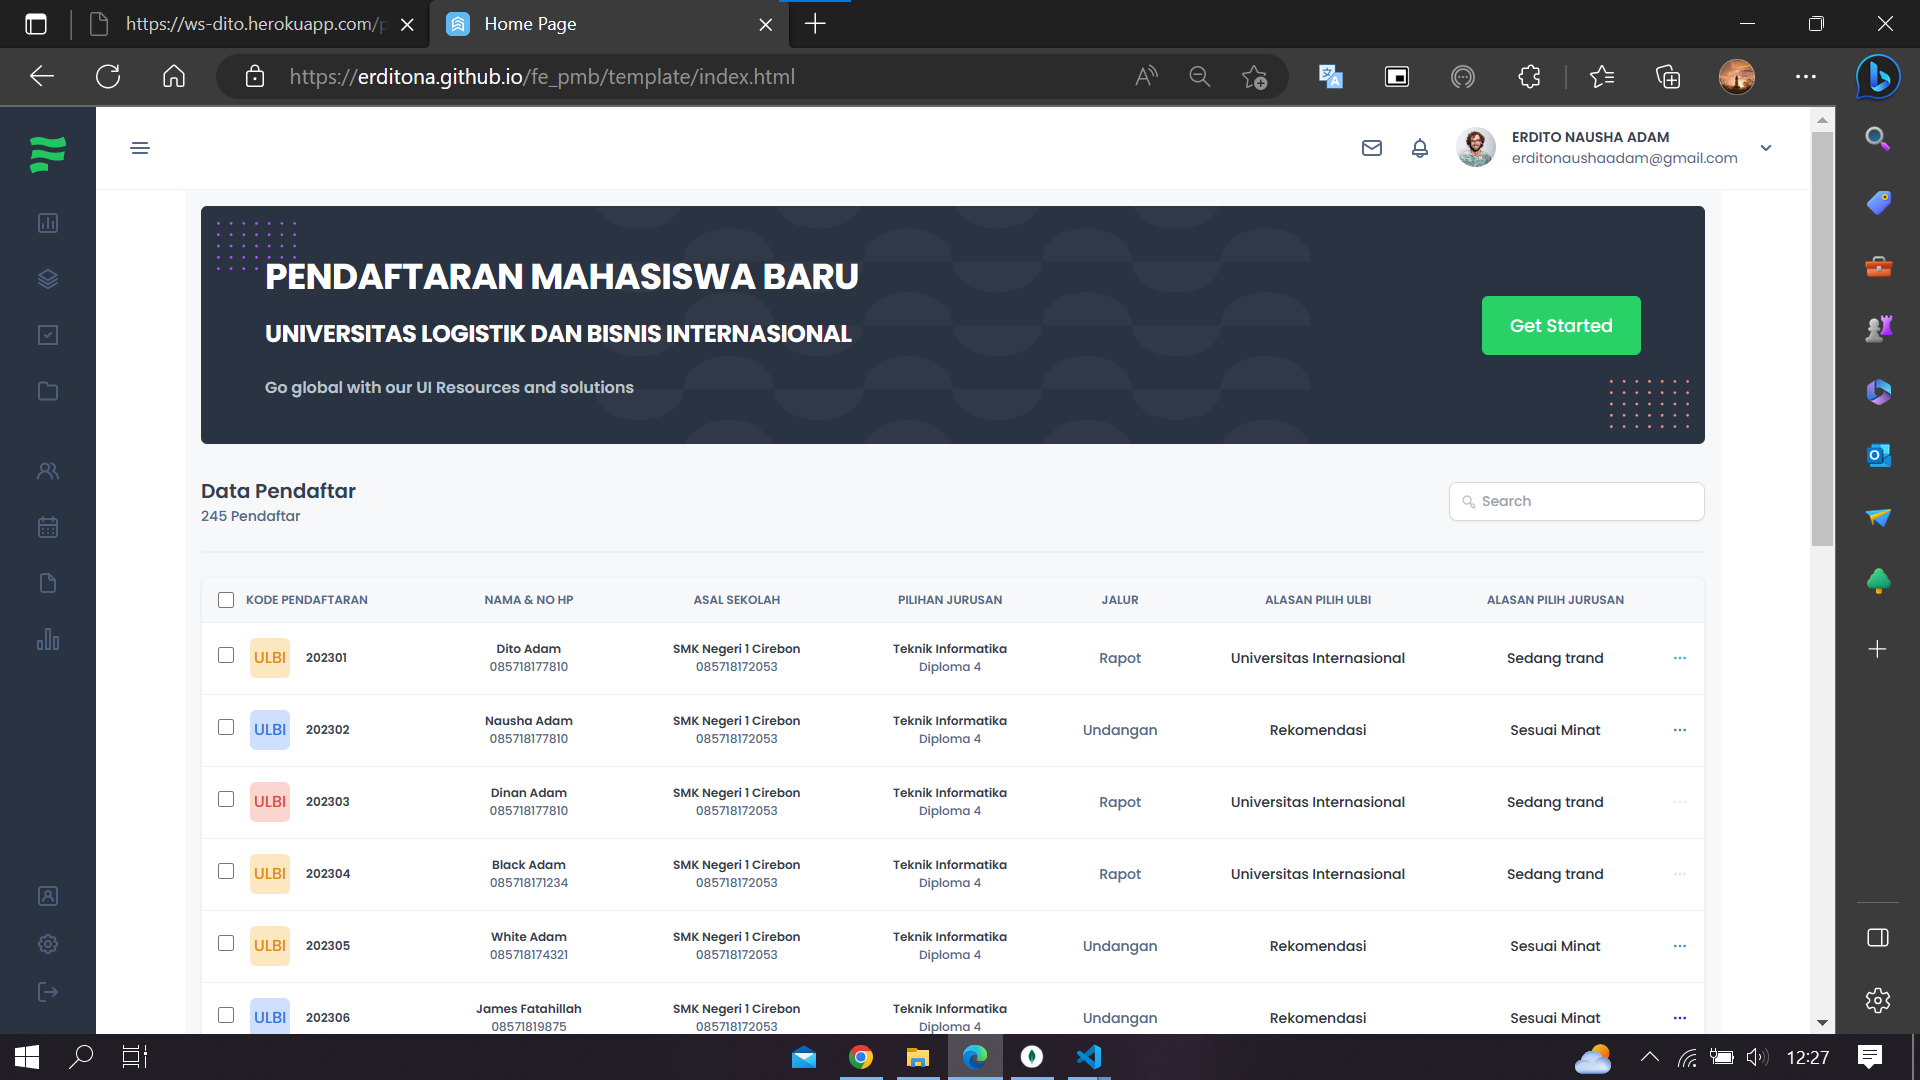
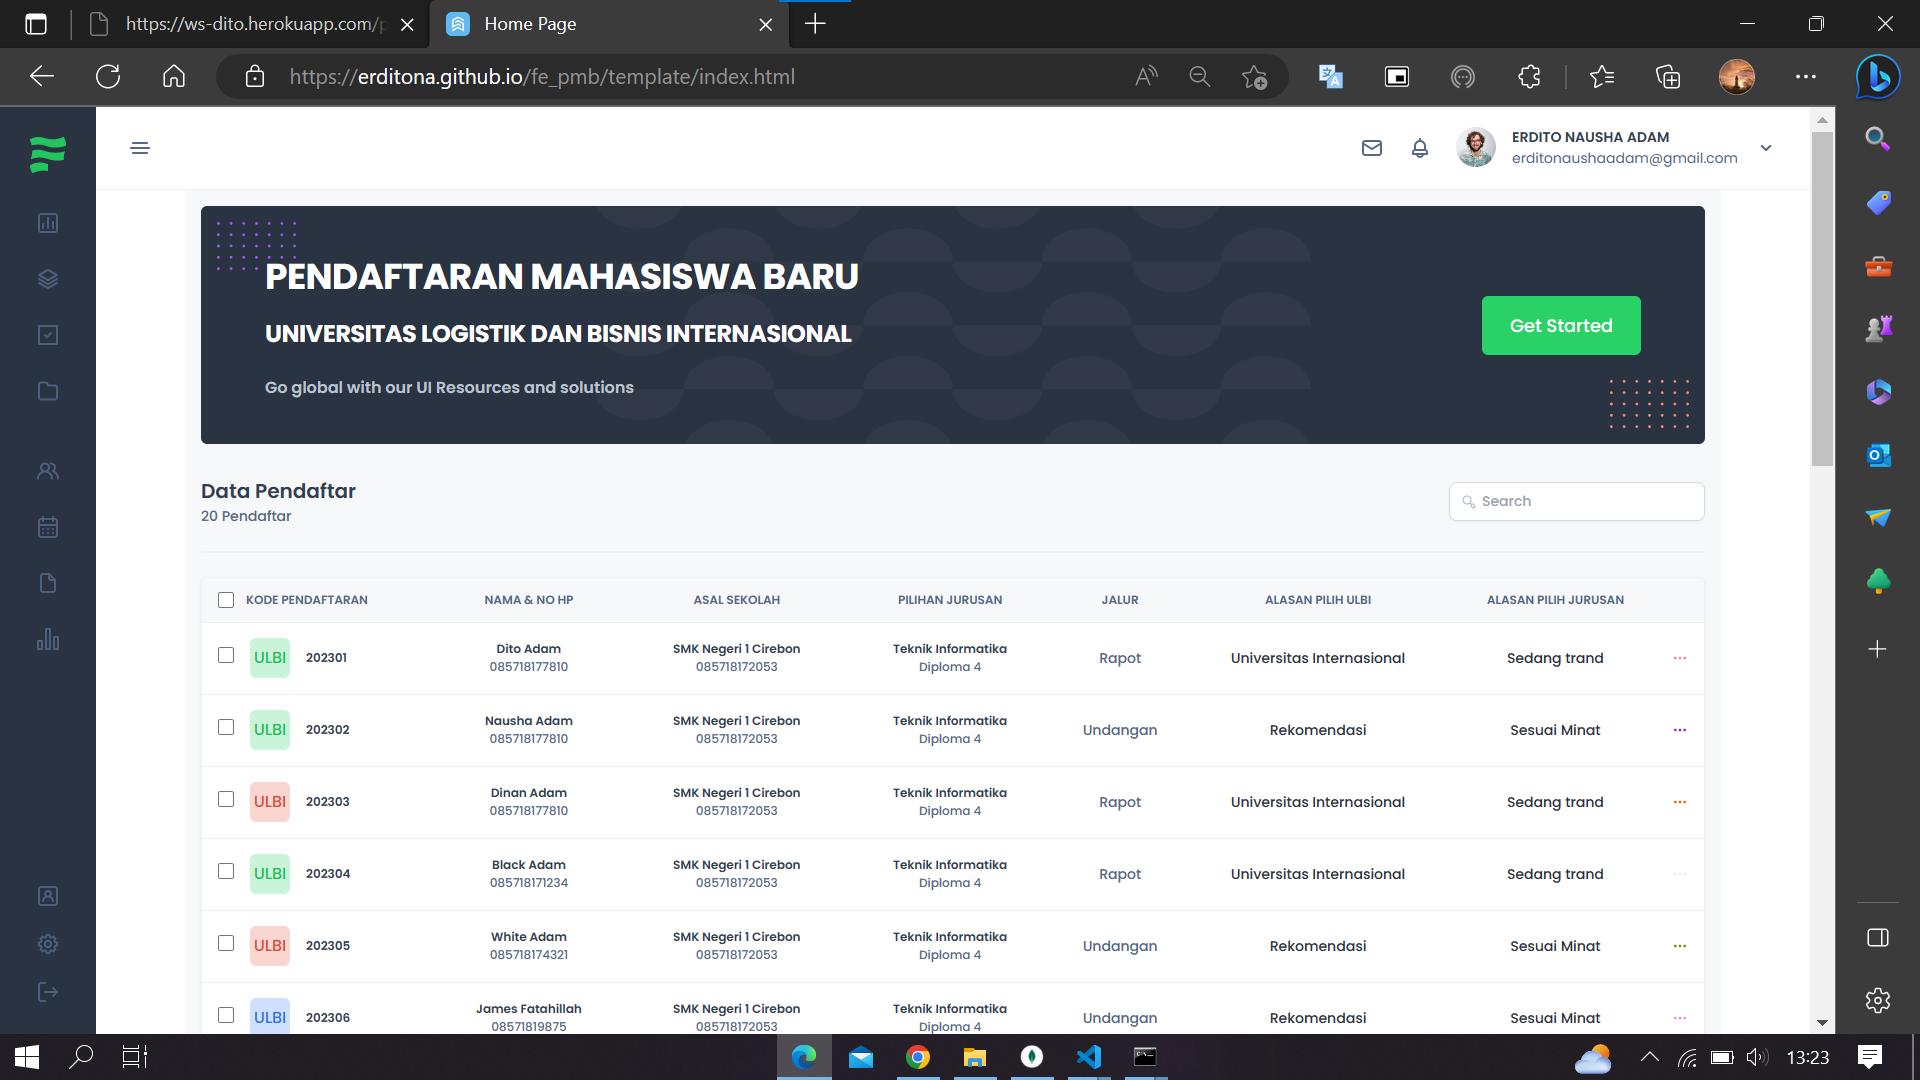
6-2B-1214031-Erdito Nausha Adam

diff --git a/Week6/Tugas/1214031/README.md b/Week6/Tugas/1214031/README.md
@@ -5,3 +5,7 @@ https://erditona.github.io/fe_pmb/template/index.html
 # SS Hasil
 
 ![pages](https://github.com/erditona/Pemrog3WebService/blob/main/Week6/Tugas/1214031/fe_pmb.png)
+
+![pages](https://github.com/erditona/Pemrog3WebService/blob/main/Week6/Tugas/1214031/fe_pmb2.png)
+
+![pages](https://github.com/erditona/Pemrog3WebService/blob/main/Week6/Tugas/1214031/fe_pmb3.png)
